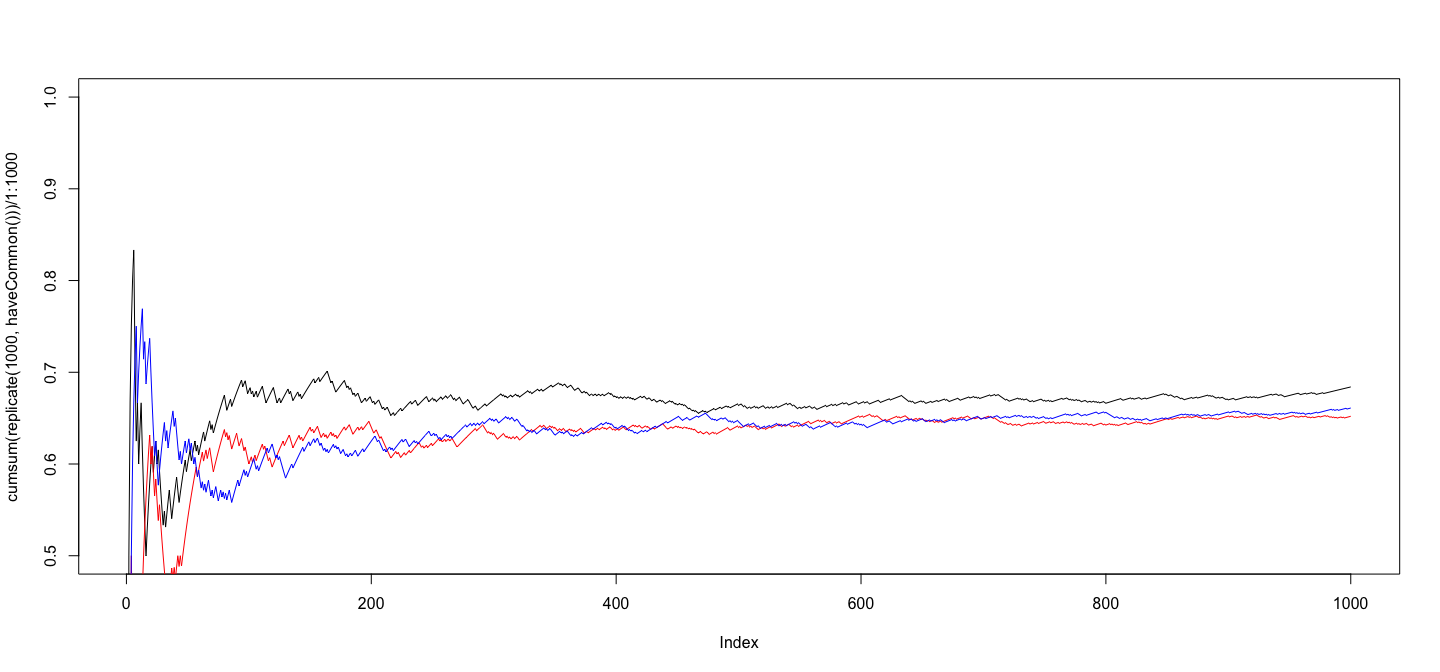
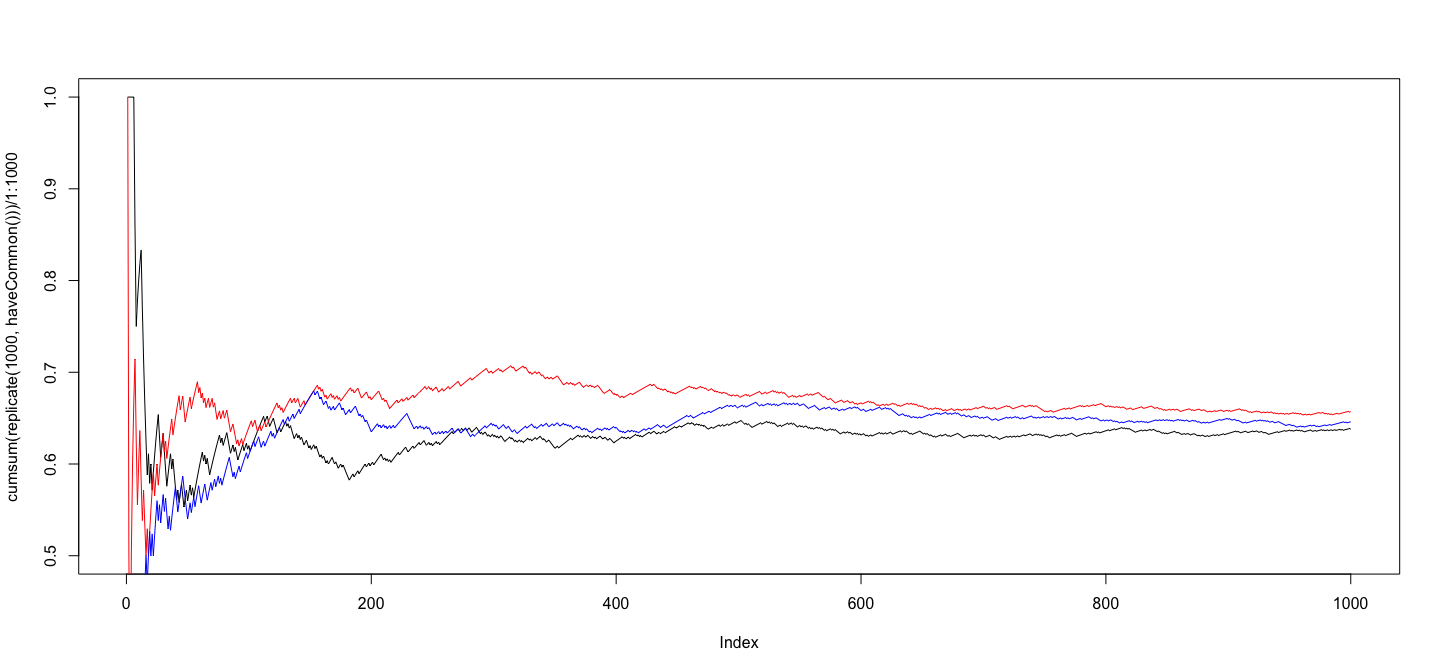
width update

Changed region(s): [[0.0625, 0.375, 0.9375, 0.875], [0.3438, 0.5312, 0.4688, 0.5938]]

diff --git a/courses/introductory-computer-programming/slides/davis-plotly.html b/courses/introductory-computer-programming/slides/davis-plotly.html
@@ -16,9 +16,9 @@
 </head>
 <body>
 <div id="htmlwidget_container">
-  <div id="htmlwidget-c94cb046a0e80d5ddb4c" style="width:100%;height:400px;" class="plotly html-widget"></div>
+  <div id="htmlwidget-dab841853c745a2186ba" style="width:100%;height:400px;" class="plotly html-widget"></div>
 </div>
-<script type="application/json" data-for="htmlwidget-c94cb046a0e80d5ddb4c">{"x":{"data":[{"x":[182,161,161,177,157,170,167,186,178,171,175,57,161,168,163,166,187,168,197,175,180,170,175,173,171,166,169,166,157,183,166,178,173,164,169,176,166,174,178,187,164,178,163,183,179,160,180,161,174,162,182,165,169,185,177,176,170,183,172,173,165,177,180,173,189,162,165,164,158,178,175,173,165,163,166,171,160,160,182,183,165,168,169,167,170,182,178,165,163,162,173,161,184,180,189,165,185,169,159,155,164,178,163,163,175,164,152,167,166,166,183,179,174,179,167,168,184,184,169,178,178,167,178,165,179,169,153,157,171,157,166,185,160,148,177,162,172,167,188,191,175,163,165,176,171,160,165,157,173,184,168,162,150,162,163,169,172,170,169,167,163,161,162,172,163,159,170,166,191,158,169,163,170,176,168,178,174,170,178,174,176,154,181,165,173,162,172,169,183,158,185,173,164,156,164,175,180,175,181,177],"y":[77,58,53,68,59,76,76,69,71,65,70,166,51,64,52,65,92,62,76,61,119,61,65,66,54,50,63,58,39,101,71,75,79,52,68,64,56,69,88,65,54,80,63,78,85,54,73,49,54,75,82,56,74,102,64,65,66,73,75,57,68,71,71,78,97,60,64,64,52,80,62,66,55,56,50,50,50,63,69,69,61,55,53,60,56,59,62,53,57,57,70,56,84,69,88,56,103,50,52,55,55,63,47,45,62,53,52,57,64,59,84,79,55,67,76,62,83,96,75,65,78,69,68,55,67,52,47,45,68,44,62,87,56,50,83,53,64,62,90,85,66,52,53,54,64,55,55,59,70,88,57,47,47,55,48,54,69,59,58,57,51,54,53,59,56,59,63,66,96,53,76,54,61,82,62,71,60,66,81,68,80,43,82,63,70,56,60,58,76,50,88,89,59,51,62,74,83,81,90,79],"text":["height: 182<br />weight:  77","height: 161<br />weight:  58","height: 161<br />weight:  53","height: 177<br />weight:  68","height: 157<br />weight:  59","height: 170<br />weight:  76","height: 167<br />weight:  76","height: 186<br />weight:  69","height: 178<br />weight:  71","height: 171<br />weight:  65","height: 175<br />weight:  70","height:  57<br />weight: 166","height: 161<br />weight:  51","height: 168<br />weight:  64","height: 163<br />weight:  52","height: 166<br />weight:  65","height: 187<br />weight:  92","height: 168<br />weight:  62","height: 197<br />weight:  76","height: 175<br />weight:  61","height: 180<br />weight: 119","height: 170<br />weight:  61","height: 175<br />weight:  65","height: 173<br />weight:  66","height: 171<br />weight:  54","height: 166<br />weight:  50","height: 169<br />weight:  63","height: 166<br />weight:  58","height: 157<br />weight:  39","height: 183<br />weight: 101","height: 166<br />weight:  71","height: 178<br />weight:  75","height: 173<br />weight:  79","height: 164<br />weight:  52","height: 169<br />weight:  68","height: 176<br />weight:  64","height: 166<br />weight:  56","height: 174<br />weight:  69","height: 178<br />weight:  88","height: 187<br />weight:  65","height: 164<br />weight:  54","height: 178<br />weight:  80","height: 163<br />weight:  63","height: 183<br />weight:  78","height: 179<br />weight:  85","height: 160<br />weight:  54","height: 180<br />weight:  73","height: 161<br />weight:  49","height: 174<br />weight:  54","height: 162<br />weight:  75","height: 182<br />weight:  82","height: 165<br />weight:  56","height: 169<br />weight:  74","height: 185<br />weight: 102","height: 177<br />weight:  64","height: 176<br />weight:  65","height: 170<br />weight:  66","height: 183<br />weight:  73","height: 172<br />weight:  75","height: 173<br />weight:  57","height: 165<br />weight:  68","height: 177<br />weight:  71","height: 180<br />weight:  71","height: 173<br />weight:  78","height: 189<br />weight:  97","height: 162<br />weight:  60","height: 165<br />weight:  64","height: 164<br />weight:  64","height: 158<br />weight:  52","height: 178<br />weight:  80","height: 175<br />weight:  62","height: 173<br />weight:  66","height: 165<br />weight:  55","height: 163<br />weight:  56","height: 166<br />weight:  50","height: 171<br />weight:  50","height: 160<br />weight:  50","height: 160<br />weight:  63","height: 182<br />weight:  69","height: 183<br />weight:  69","height: 165<br />weight:  61","height: 168<br />weight:  55","height: 169<br />weight:  53","height: 167<br />weight:  60","height: 170<br />weight:  56","height: 182<br />weight:  59","height: 178<br />weight:  62","height: 165<br />weight:  53","height: 163<br />weight:  57","height: 162<br />weight:  57","height: 173<br />weight:  70","height: 161<br />weight:  56","height: 184<br />weight:  84","height: 180<br />weight:  69","height: 189<br />weight:  88","height: 165<br />weight:  56","height: 185<br />weight: 103","height: 169<br />weight:  50","height: 159<br />weight:  52","height: 155<br />weight:  55","height: 164<br />weight:  55","height: 178<br />weight:  63","height: 163<br />weight:  47","height: 163<br />weight:  45","height: 175<br />weight:  62","height: 164<br />weight:  53","height: 152<br />weight:  52","height: 167<br />weight:  57","height: 166<br />weight:  64","height: 166<br />weight:  59","height: 183<br />weight:  84","height: 179<br />weight:  79","height: 174<br />weight:  55","height: 179<br />weight:  67","height: 167<br />weight:  76","height: 168<br />weight:  62","height: 184<br />weight:  83","height: 184<br />weight:  96","height: 169<br />weight:  75","height: 178<br />weight:  65","height: 178<br />weight:  78","height: 167<br />weight:  69","height: 178<br />weight:  68","height: 165<br />weight:  55","height: 179<br />weight:  67","height: 169<br />weight:  52","height: 153<br />weight:  47","height: 157<br />weight:  45","height: 171<br />weight:  68","height: 157<br />weight:  44","height: 166<br />weight:  62","height: 185<br />weight:  87","height: 160<br />weight:  56","height: 148<br />weight:  50","height: 177<br />weight:  83","height: 162<br />weight:  53","height: 172<br />weight:  64","height: 167<br />weight:  62","height: 188<br />weight:  90","height: 191<br />weight:  85","height: 175<br />weight:  66","height: 163<br />weight:  52","height: 165<br />weight:  53","height: 176<br />weight:  54","height: 171<br />weight:  64","height: 160<br />weight:  55","height: 165<br />weight:  55","height: 157<br />weight:  59","height: 173<br />weight:  70","height: 184<br />weight:  88","height: 168<br />weight:  57","height: 162<br />weight:  47","height: 150<br />weight:  47","height: 162<br />weight:  55","height: 163<br />weight:  48","height: 169<br />weight:  54","height: 172<br />weight:  69","height: 170<br />weight:  59","height: 169<br />weight:  58","height: 167<br />weight:  57","height: 163<br />weight:  51","height: 161<br />weight:  54","height: 162<br />weight:  53","height: 172<br />weight:  59","height: 163<br />weight:  56","height: 159<br />weight:  59","height: 170<br />weight:  63","height: 166<br />weight:  66","height: 191<br />weight:  96","height: 158<br />weight:  53","height: 169<br />weight:  76","height: 163<br />weight:  54","height: 170<br />weight:  61","height: 176<br />weight:  82","height: 168<br />weight:  62","height: 178<br />weight:  71","height: 174<br />weight:  60","height: 170<br />weight:  66","height: 178<br />weight:  81","height: 174<br />weight:  68","height: 176<br />weight:  80","height: 154<br />weight:  43","height: 181<br />weight:  82","height: 165<br />weight:  63","height: 173<br />weight:  70","height: 162<br />weight:  56","height: 172<br />weight:  60","height: 169<br />weight:  58","height: 183<br />weight:  76","height: 158<br />weight:  50","height: 185<br />weight:  88","height: 173<br />weight:  89","height: 164<br />weight:  59","height: 156<br />weight:  51","height: 164<br />weight:  62","height: 175<br />weight:  74","height: 180<br />weight:  83","height: 175<br />weight:  81","height: 181<br />weight:  90","height: 177<br />weight:  79"],"type":"scatter","mode":"markers","marker":{"autocolorscale":false,"color":"rgba(0,0,0,1)","opacity":1,"size":5.66929133858268,"symbol":"circle","line":{"width":1.88976377952756,"color":"rgba(0,0,0,1)"}},"hoveron":"points","showlegend":false,"xaxis":"x","yaxis":"y","hoverinfo":"text","frame":null},{"x":[50,204],"y":[37.1865231380028,73.9010326926401],"text":"intercept: 25.26623<br />slope: 0.2384059","type":"scatter","mode":"lines","line":{"width":1.88976377952756,"color":"rgba(223,83,107,1)","dash":"solid"},"hoveron":"points","showlegend":false,"xaxis":"x","yaxis":"y","hoverinfo":"text","frame":null},{"x":[50,204],"y":[-56.0005584169673,98.0001463584854],"text":"intercept: -106.0008<br />slope: 1.000005","type":"scatter","mode":"lines","line":{"width":1.88976377952756,"color":"rgba(97,208,79,1)","dash":"solid"},"hoveron":"points","showlegend":false,"xaxis":"x","yaxis":"y","hoverinfo":"text","frame":null}],"layout":{"margin":{"t":31.6555772994129,"r":7.30593607305936,"b":45.6099151989563,"l":48.9497716894977},"plot_bgcolor":"rgba(235,235,235,1)","paper_bgcolor":"rgba(255,255,255,1)","font":{"color":"rgba(0,0,0,1)","family":"","size":14.6118721461187},"xaxis":{"domain":[0,1],"automargin":true,"type":"linear","autorange":false,"range":[50,204],"tickmode":"array","ticktext":["50","100","150","200"],"tickvals":[50,100,150,200],"categoryorder":"array","categoryarray":["50","100","150","200"],"nticks":null,"ticks":"outside","tickcolor":"rgba(51,51,51,1)","ticklen":3.65296803652968,"tickwidth":0.66417600664176,"showticklabels":true,"tickfont":{"color":"rgba(77,77,77,1)","family":"","size":11.689497716895},"tickangle":-0,"showline":false,"linecolor":null,"linewidth":0,"showgrid":true,"gridcolor":"rgba(255,255,255,1)","gridwidth":0.66417600664176,"zeroline":false,"anchor":"y","title":{"text":"height","font":{"color":"rgba(0,0,0,1)","family":"","size":14.6118721461187}},"hoverformat":".2f"},"yaxis":{"domain":[0,1],"automargin":true,"type":"linear","autorange":false,"range":[-119.600826602175,179.600039362008],"tickmode":"array","ticktext":["-100","0","100"],"tickvals":[-100,0,100],"categoryorder":"array","categoryarray":["-100","0","100"],"nticks":null,"ticks":"outside","tickcolor":"rgba(51,51,51,1)","ticklen":3.65296803652968,"tickwidth":0.66417600664176,"showticklabels":true,"tickfont":{"color":"rgba(77,77,77,1)","family":"","size":11.689497716895},"tickangle":-0,"showline":false,"linecolor":null,"linewidth":0,"showgrid":true,"gridcolor":"rgba(255,255,255,1)","gridwidth":0.66417600664176,"zeroline":false,"anchor":"x","title":{"text":"weight","font":{"color":"rgba(0,0,0,1)","family":"","size":14.6118721461187}},"hoverformat":".2f"},"shapes":[{"type":"rect","fillcolor":null,"line":{"color":null,"width":0,"linetype":[]},"yref":"paper","xref":"paper","x0":0,"x1":1,"y0":0,"y1":1}],"showlegend":false,"legend":{"bgcolor":"rgba(255,255,255,1)","bordercolor":"transparent","borderwidth":1.88976377952756,"font":{"color":"rgba(0,0,0,1)","family":"","size":11.689497716895}},"hovermode":"closest","barmode":"relative"},"config":{"doubleClick":"reset","modeBarButtonsToAdd":["hoverclosest","hovercompare"],"showSendToCloud":false},"source":"A","attrs":{"87cd1480678d":{"x":{},"y":{},"type":"scatter"},"87cd7a0e647e":{"intercept":{},"slope":{}},"87cd46e7cacc":{"intercept":{},"slope":{}}},"cur_data":"87cd1480678d","visdat":{"87cd1480678d":["function (y) ","x"],"87cd7a0e647e":["function (y) ","x"],"87cd46e7cacc":["function (y) ","x"]},"highlight":{"on":"plotly_click","persistent":false,"dynamic":false,"selectize":false,"opacityDim":0.2,"selected":{"opacity":1},"debounce":0},"shinyEvents":["plotly_hover","plotly_click","plotly_selected","plotly_relayout","plotly_brushed","plotly_brushing","plotly_clickannotation","plotly_doubleclick","plotly_deselect","plotly_afterplot","plotly_sunburstclick"],"base_url":"https://plot.ly"},"evals":[],"jsHooks":[]}</script>
-<script type="application/htmlwidget-sizing" data-for="htmlwidget-c94cb046a0e80d5ddb4c">{"viewer":{"width":"100%","height":400,"padding":0,"fill":true},"browser":{"width":"100%","height":400,"padding":0,"fill":true}}</script>
+<script type="application/json" data-for="htmlwidget-dab841853c745a2186ba">{"x":{"data":[{"x":[182,161,161,177,157,170,167,186,178,171,175,57,161,168,163,166,187,168,197,175,180,170,175,173,171,166,169,166,157,183,166,178,173,164,169,176,166,174,178,187,164,178,163,183,179,160,180,161,174,162,182,165,169,185,177,176,170,183,172,173,165,177,180,173,189,162,165,164,158,178,175,173,165,163,166,171,160,160,182,183,165,168,169,167,170,182,178,165,163,162,173,161,184,180,189,165,185,169,159,155,164,178,163,163,175,164,152,167,166,166,183,179,174,179,167,168,184,184,169,178,178,167,178,165,179,169,153,157,171,157,166,185,160,148,177,162,172,167,188,191,175,163,165,176,171,160,165,157,173,184,168,162,150,162,163,169,172,170,169,167,163,161,162,172,163,159,170,166,191,158,169,163,170,176,168,178,174,170,178,174,176,154,181,165,173,162,172,169,183,158,185,173,164,156,164,175,180,175,181,177],"y":[77,58,53,68,59,76,76,69,71,65,70,166,51,64,52,65,92,62,76,61,119,61,65,66,54,50,63,58,39,101,71,75,79,52,68,64,56,69,88,65,54,80,63,78,85,54,73,49,54,75,82,56,74,102,64,65,66,73,75,57,68,71,71,78,97,60,64,64,52,80,62,66,55,56,50,50,50,63,69,69,61,55,53,60,56,59,62,53,57,57,70,56,84,69,88,56,103,50,52,55,55,63,47,45,62,53,52,57,64,59,84,79,55,67,76,62,83,96,75,65,78,69,68,55,67,52,47,45,68,44,62,87,56,50,83,53,64,62,90,85,66,52,53,54,64,55,55,59,70,88,57,47,47,55,48,54,69,59,58,57,51,54,53,59,56,59,63,66,96,53,76,54,61,82,62,71,60,66,81,68,80,43,82,63,70,56,60,58,76,50,88,89,59,51,62,74,83,81,90,79],"text":["height: 182<br />weight:  77","height: 161<br />weight:  58","height: 161<br />weight:  53","height: 177<br />weight:  68","height: 157<br />weight:  59","height: 170<br />weight:  76","height: 167<br />weight:  76","height: 186<br />weight:  69","height: 178<br />weight:  71","height: 171<br />weight:  65","height: 175<br />weight:  70","height:  57<br />weight: 166","height: 161<br />weight:  51","height: 168<br />weight:  64","height: 163<br />weight:  52","height: 166<br />weight:  65","height: 187<br />weight:  92","height: 168<br />weight:  62","height: 197<br />weight:  76","height: 175<br />weight:  61","height: 180<br />weight: 119","height: 170<br />weight:  61","height: 175<br />weight:  65","height: 173<br />weight:  66","height: 171<br />weight:  54","height: 166<br />weight:  50","height: 169<br />weight:  63","height: 166<br />weight:  58","height: 157<br />weight:  39","height: 183<br />weight: 101","height: 166<br />weight:  71","height: 178<br />weight:  75","height: 173<br />weight:  79","height: 164<br />weight:  52","height: 169<br />weight:  68","height: 176<br />weight:  64","height: 166<br />weight:  56","height: 174<br />weight:  69","height: 178<br />weight:  88","height: 187<br />weight:  65","height: 164<br />weight:  54","height: 178<br />weight:  80","height: 163<br />weight:  63","height: 183<br />weight:  78","height: 179<br />weight:  85","height: 160<br />weight:  54","height: 180<br />weight:  73","height: 161<br />weight:  49","height: 174<br />weight:  54","height: 162<br />weight:  75","height: 182<br />weight:  82","height: 165<br />weight:  56","height: 169<br />weight:  74","height: 185<br />weight: 102","height: 177<br />weight:  64","height: 176<br />weight:  65","height: 170<br />weight:  66","height: 183<br />weight:  73","height: 172<br />weight:  75","height: 173<br />weight:  57","height: 165<br />weight:  68","height: 177<br />weight:  71","height: 180<br />weight:  71","height: 173<br />weight:  78","height: 189<br />weight:  97","height: 162<br />weight:  60","height: 165<br />weight:  64","height: 164<br />weight:  64","height: 158<br />weight:  52","height: 178<br />weight:  80","height: 175<br />weight:  62","height: 173<br />weight:  66","height: 165<br />weight:  55","height: 163<br />weight:  56","height: 166<br />weight:  50","height: 171<br />weight:  50","height: 160<br />weight:  50","height: 160<br />weight:  63","height: 182<br />weight:  69","height: 183<br />weight:  69","height: 165<br />weight:  61","height: 168<br />weight:  55","height: 169<br />weight:  53","height: 167<br />weight:  60","height: 170<br />weight:  56","height: 182<br />weight:  59","height: 178<br />weight:  62","height: 165<br />weight:  53","height: 163<br />weight:  57","height: 162<br />weight:  57","height: 173<br />weight:  70","height: 161<br />weight:  56","height: 184<br />weight:  84","height: 180<br />weight:  69","height: 189<br />weight:  88","height: 165<br />weight:  56","height: 185<br />weight: 103","height: 169<br />weight:  50","height: 159<br />weight:  52","height: 155<br />weight:  55","height: 164<br />weight:  55","height: 178<br />weight:  63","height: 163<br />weight:  47","height: 163<br />weight:  45","height: 175<br />weight:  62","height: 164<br />weight:  53","height: 152<br />weight:  52","height: 167<br />weight:  57","height: 166<br />weight:  64","height: 166<br />weight:  59","height: 183<br />weight:  84","height: 179<br />weight:  79","height: 174<br />weight:  55","height: 179<br />weight:  67","height: 167<br />weight:  76","height: 168<br />weight:  62","height: 184<br />weight:  83","height: 184<br />weight:  96","height: 169<br />weight:  75","height: 178<br />weight:  65","height: 178<br />weight:  78","height: 167<br />weight:  69","height: 178<br />weight:  68","height: 165<br />weight:  55","height: 179<br />weight:  67","height: 169<br />weight:  52","height: 153<br />weight:  47","height: 157<br />weight:  45","height: 171<br />weight:  68","height: 157<br />weight:  44","height: 166<br />weight:  62","height: 185<br />weight:  87","height: 160<br />weight:  56","height: 148<br />weight:  50","height: 177<br />weight:  83","height: 162<br />weight:  53","height: 172<br />weight:  64","height: 167<br />weight:  62","height: 188<br />weight:  90","height: 191<br />weight:  85","height: 175<br />weight:  66","height: 163<br />weight:  52","height: 165<br />weight:  53","height: 176<br />weight:  54","height: 171<br />weight:  64","height: 160<br />weight:  55","height: 165<br />weight:  55","height: 157<br />weight:  59","height: 173<br />weight:  70","height: 184<br />weight:  88","height: 168<br />weight:  57","height: 162<br />weight:  47","height: 150<br />weight:  47","height: 162<br />weight:  55","height: 163<br />weight:  48","height: 169<br />weight:  54","height: 172<br />weight:  69","height: 170<br />weight:  59","height: 169<br />weight:  58","height: 167<br />weight:  57","height: 163<br />weight:  51","height: 161<br />weight:  54","height: 162<br />weight:  53","height: 172<br />weight:  59","height: 163<br />weight:  56","height: 159<br />weight:  59","height: 170<br />weight:  63","height: 166<br />weight:  66","height: 191<br />weight:  96","height: 158<br />weight:  53","height: 169<br />weight:  76","height: 163<br />weight:  54","height: 170<br />weight:  61","height: 176<br />weight:  82","height: 168<br />weight:  62","height: 178<br />weight:  71","height: 174<br />weight:  60","height: 170<br />weight:  66","height: 178<br />weight:  81","height: 174<br />weight:  68","height: 176<br />weight:  80","height: 154<br />weight:  43","height: 181<br />weight:  82","height: 165<br />weight:  63","height: 173<br />weight:  70","height: 162<br />weight:  56","height: 172<br />weight:  60","height: 169<br />weight:  58","height: 183<br />weight:  76","height: 158<br />weight:  50","height: 185<br />weight:  88","height: 173<br />weight:  89","height: 164<br />weight:  59","height: 156<br />weight:  51","height: 164<br />weight:  62","height: 175<br />weight:  74","height: 180<br />weight:  83","height: 175<br />weight:  81","height: 181<br />weight:  90","height: 177<br />weight:  79"],"type":"scatter","mode":"markers","marker":{"autocolorscale":false,"color":"rgba(0,0,0,1)","opacity":1,"size":5.66929133858268,"symbol":"circle","line":{"width":1.88976377952756,"color":"rgba(0,0,0,1)"}},"hoveron":"points","showlegend":false,"xaxis":"x","yaxis":"y","hoverinfo":"text","frame":null},{"x":[50,204],"y":[37.1865231380028,73.9010326926401],"text":"intercept: 25.26623<br />slope: 0.2384059","type":"scatter","mode":"lines","line":{"width":1.88976377952756,"color":"rgba(223,83,107,1)","dash":"solid"},"hoveron":"points","showlegend":false,"xaxis":"x","yaxis":"y","hoverinfo":"text","frame":null},{"x":[50,204],"y":[-56.0005584169673,98.0001463584854],"text":"intercept: -106.0008<br />slope: 1.000005","type":"scatter","mode":"lines","line":{"width":1.88976377952756,"color":"rgba(97,208,79,1)","dash":"solid"},"hoveron":"points","showlegend":false,"xaxis":"x","yaxis":"y","hoverinfo":"text","frame":null}],"layout":{"margin":{"t":31.6555772994129,"r":7.30593607305936,"b":45.6099151989563,"l":48.9497716894977},"plot_bgcolor":"rgba(235,235,235,1)","paper_bgcolor":"rgba(255,255,255,1)","font":{"color":"rgba(0,0,0,1)","family":"","size":14.6118721461187},"xaxis":{"domain":[0,1],"automargin":true,"type":"linear","autorange":false,"range":[50,204],"tickmode":"array","ticktext":["50","100","150","200"],"tickvals":[50,100,150,200],"categoryorder":"array","categoryarray":["50","100","150","200"],"nticks":null,"ticks":"outside","tickcolor":"rgba(51,51,51,1)","ticklen":3.65296803652968,"tickwidth":0.66417600664176,"showticklabels":true,"tickfont":{"color":"rgba(77,77,77,1)","family":"","size":11.689497716895},"tickangle":-0,"showline":false,"linecolor":null,"linewidth":0,"showgrid":true,"gridcolor":"rgba(255,255,255,1)","gridwidth":0.66417600664176,"zeroline":false,"anchor":"y","title":{"text":"height","font":{"color":"rgba(0,0,0,1)","family":"","size":14.6118721461187}},"hoverformat":".2f"},"yaxis":{"domain":[0,1],"automargin":true,"type":"linear","autorange":false,"range":[-119.600826602175,179.600039362008],"tickmode":"array","ticktext":["-100","0","100"],"tickvals":[-100,0,100],"categoryorder":"array","categoryarray":["-100","0","100"],"nticks":null,"ticks":"outside","tickcolor":"rgba(51,51,51,1)","ticklen":3.65296803652968,"tickwidth":0.66417600664176,"showticklabels":true,"tickfont":{"color":"rgba(77,77,77,1)","family":"","size":11.689497716895},"tickangle":-0,"showline":false,"linecolor":null,"linewidth":0,"showgrid":true,"gridcolor":"rgba(255,255,255,1)","gridwidth":0.66417600664176,"zeroline":false,"anchor":"x","title":{"text":"weight","font":{"color":"rgba(0,0,0,1)","family":"","size":14.6118721461187}},"hoverformat":".2f"},"shapes":[{"type":"rect","fillcolor":null,"line":{"color":null,"width":0,"linetype":[]},"yref":"paper","xref":"paper","x0":0,"x1":1,"y0":0,"y1":1}],"showlegend":false,"legend":{"bgcolor":"rgba(255,255,255,1)","bordercolor":"transparent","borderwidth":1.88976377952756,"font":{"color":"rgba(0,0,0,1)","family":"","size":11.689497716895}},"hovermode":"closest","barmode":"relative"},"config":{"doubleClick":"reset","modeBarButtonsToAdd":["hoverclosest","hovercompare"],"showSendToCloud":false},"source":"A","attrs":{"884e3f807341":{"x":{},"y":{},"type":"scatter"},"884ea0ed0f9":{"intercept":{},"slope":{}},"884e52b99097":{"intercept":{},"slope":{}}},"cur_data":"884e3f807341","visdat":{"884e3f807341":["function (y) ","x"],"884ea0ed0f9":["function (y) ","x"],"884e52b99097":["function (y) ","x"]},"highlight":{"on":"plotly_click","persistent":false,"dynamic":false,"selectize":false,"opacityDim":0.2,"selected":{"opacity":1},"debounce":0},"shinyEvents":["plotly_hover","plotly_click","plotly_selected","plotly_relayout","plotly_brushed","plotly_brushing","plotly_clickannotation","plotly_doubleclick","plotly_deselect","plotly_afterplot","plotly_sunburstclick"],"base_url":"https://plot.ly"},"evals":[],"jsHooks":[]}</script>
+<script type="application/htmlwidget-sizing" data-for="htmlwidget-dab841853c745a2186ba">{"viewer":{"width":"100%","height":400,"padding":0,"fill":true},"browser":{"width":"100%","height":400,"padding":0,"fill":true}}</script>
 </body>
 </html>

diff --git a/courses/introductory-computer-programming/slides/03-roverview-2.html b/courses/introductory-computer-programming/slides/03-roverview-2.html
@@ -128,11 +128,12 @@ pvec
 ```
 
 ```
-  [1] 0.00 0.01 0.02 0.03 0.04 0.05 0.06 0.07 0.08 0.09 0.10 0.11 0.12 0.13 0.14 0.15 0.16 0.17 0.18 0.19 0.20 0.21 0.22
- [24] 0.23 0.24 0.25 0.26 0.27 0.28 0.29 0.30 0.31 0.32 0.33 0.34 0.35 0.36 0.37 0.38 0.39 0.40 0.41 0.42 0.43 0.44 0.45
- [47] 0.46 0.47 0.48 0.49 0.50 0.51 0.52 0.53 0.54 0.55 0.56 0.57 0.58 0.59 0.60 0.61 0.62 0.63 0.64 0.65 0.66 0.67 0.68
- [70] 0.69 0.70 0.71 0.72 0.73 0.74 0.75 0.76 0.77 0.78 0.79 0.80 0.81 0.82 0.83 0.84 0.85 0.86 0.87 0.88 0.89 0.90 0.91
- [93] 0.92 0.93 0.94 0.95 0.96 0.97 0.98 0.99 1.00
+  [1] 0.00 0.01 0.02 0.03 0.04 0.05 0.06 0.07 0.08 0.09 0.10 0.11 0.12 0.13 0.14 0.15 0.16 0.17 0.18
+ [20] 0.19 0.20 0.21 0.22 0.23 0.24 0.25 0.26 0.27 0.28 0.29 0.30 0.31 0.32 0.33 0.34 0.35 0.36 0.37
+ [39] 0.38 0.39 0.40 0.41 0.42 0.43 0.44 0.45 0.46 0.47 0.48 0.49 0.50 0.51 0.52 0.53 0.54 0.55 0.56
+ [58] 0.57 0.58 0.59 0.60 0.61 0.62 0.63 0.64 0.65 0.66 0.67 0.68 0.69 0.70 0.71 0.72 0.73 0.74 0.75
+ [77] 0.76 0.77 0.78 0.79 0.80 0.81 0.82 0.83 0.84 0.85 0.86 0.87 0.88 0.89 0.90 0.91 0.92 0.93 0.94
+ [96] 0.95 0.96 0.97 0.98 0.99 1.00
 ```
 
 ```r
@@ -141,19 +142,21 @@ Lvec
 ```
 
 ```
-  [1] 0.000000e+00 1.441581e-30 3.484224e-25 4.743664e-22 7.744746e-20 3.953724e-18 9.671700e-17 1.423593e-15
-  [9] 1.444375e-14 1.102691e-13 6.725082e-13 3.419368e-12 1.495827e-11 5.766228e-11 1.995491e-10 6.291462e-10
- [17] 1.828738e-09 4.948377e-09 1.256532e-08 3.014411e-08 6.870958e-08 1.495277e-07 3.119770e-07 6.263028e-07
- [25] 1.213580e-06 2.275976e-06 4.141251e-06 7.326358e-06 1.262589e-05 2.123187e-05 3.489188e-05 5.611264e-05
- [33] 8.841550e-05 1.366491e-04 2.073621e-04 3.092354e-04 4.535679e-04 6.548064e-04 9.310987e-04 1.304845e-03
- [41] 1.803214e-03 2.458572e-03 3.308786e-03 4.397325e-03 5.773111e-03 7.490042e-03 9.606132e-03 1.218220e-02
- [49] 1.528011e-02 1.896044e-02 2.327971e-02 2.828716e-02 3.402104e-02 4.050475e-02 4.774279e-02 5.571678e-02
- [57] 6.438184e-02 7.366353e-02 8.345564e-02 9.361912e-02 1.039824e-01 1.143435e-01 1.244734e-01 1.341224e-01
- [65] 1.430267e-01 1.509184e-01 1.575359e-01 1.626355e-01 1.660037e-01 1.674691e-01 1.669138e-01 1.642827e-01
- [73] 1.595904e-01 1.529252e-01 1.444492e-01 1.343941e-01 1.230530e-01 1.107677e-01 9.791332e-02 8.487885e-02
- [81] 7.204722e-02 5.977459e-02 4.837120e-02 3.808505e-02 2.909005e-02 2.147970e-02 1.526701e-02 1.039084e-02
- [89] 6.728148e-03 4.110731e-03 2.344891e-03 1.231523e-03 5.843301e-04 2.439130e-04 8.615269e-05 2.424055e-05
- [97] 4.910431e-06 5.924050e-07 2.780141e-08 1.303740e-10 0.000000e+00
+  [1] 0.000000e+00 1.441581e-30 3.484224e-25 4.743664e-22 7.744746e-20 3.953724e-18 9.671700e-17
+  [8] 1.423593e-15 1.444375e-14 1.102691e-13 6.725082e-13 3.419368e-12 1.495827e-11 5.766228e-11
+ [15] 1.995491e-10 6.291462e-10 1.828738e-09 4.948377e-09 1.256532e-08 3.014411e-08 6.870958e-08
+ [22] 1.495277e-07 3.119770e-07 6.263028e-07 1.213580e-06 2.275976e-06 4.141251e-06 7.326358e-06
+ [29] 1.262589e-05 2.123187e-05 3.489188e-05 5.611264e-05 8.841550e-05 1.366491e-04 2.073621e-04
+ [36] 3.092354e-04 4.535679e-04 6.548064e-04 9.310987e-04 1.304845e-03 1.803214e-03 2.458572e-03
+ [43] 3.308786e-03 4.397325e-03 5.773111e-03 7.490042e-03 9.606132e-03 1.218220e-02 1.528011e-02
+ [50] 1.896044e-02 2.327971e-02 2.828716e-02 3.402104e-02 4.050475e-02 4.774279e-02 5.571678e-02
+ [57] 6.438184e-02 7.366353e-02 8.345564e-02 9.361912e-02 1.039824e-01 1.143435e-01 1.244734e-01
+ [64] 1.341224e-01 1.430267e-01 1.509184e-01 1.575359e-01 1.626355e-01 1.660037e-01 1.674691e-01
+ [71] 1.669138e-01 1.642827e-01 1.595904e-01 1.529252e-01 1.444492e-01 1.343941e-01 1.230530e-01
+ [78] 1.107677e-01 9.791332e-02 8.487885e-02 7.204722e-02 5.977459e-02 4.837120e-02 3.808505e-02
+ [85] 2.909005e-02 2.147970e-02 1.526701e-02 1.039084e-02 6.728148e-03 4.110731e-03 2.344891e-03
+ [92] 1.231523e-03 5.843301e-04 2.439130e-04 8.615269e-05 2.424055e-05 4.910431e-06 5.924050e-07
+ [99] 2.780141e-08 1.303740e-10 0.000000e+00
 ```
 
 ---
@@ -484,7 +487,8 @@ days
 ```
 
 ```
- [1] 275 150 134 363 220 306 184  81 343 337  63 105 335 157 324 238 276 235 106  13  63 331 280  10   1 217 122 357
+ [1] 112  66 311 109 161  47 183 276 210 255  90 146 207 229 298  75 294 358 340 253  21 137 219 256
+[25]  83 278 179 172
 ```
 
 ```r
@@ -492,7 +496,7 @@ length(unique(days))
 ```
 
 ```
-[1] 27
+[1] 28
 ```
 
 ---
@@ -516,6 +520,14 @@ haveCommon()
 ```
 
 ```
+[1] FALSE
+```
+
+```r
+haveCommon()
+```
+
+```
 [1] TRUE
 ```
 
@@ -533,14 +545,6 @@ haveCommon()
 
 ```
 [1] FALSE
-```
-
-```r
-haveCommon()
-```
-
-```
-[1] TRUE
 ```
 
 ---
@@ -553,12 +557,13 @@ replicate(100, haveCommon())
 ```
 
 ```
-  [1]  TRUE  TRUE FALSE FALSE  TRUE  TRUE  TRUE FALSE  TRUE  TRUE FALSE  TRUE  TRUE  TRUE FALSE FALSE  TRUE  TRUE  TRUE
- [20]  TRUE  TRUE  TRUE  TRUE FALSE FALSE  TRUE  TRUE  TRUE  TRUE  TRUE  TRUE FALSE FALSE  TRUE  TRUE  TRUE  TRUE  TRUE
- [39] FALSE FALSE FALSE  TRUE  TRUE FALSE  TRUE  TRUE  TRUE  TRUE  TRUE  TRUE  TRUE FALSE  TRUE  TRUE  TRUE  TRUE FALSE
- [58]  TRUE FALSE FALSE  TRUE FALSE  TRUE  TRUE  TRUE  TRUE  TRUE  TRUE  TRUE FALSE  TRUE  TRUE FALSE  TRUE  TRUE  TRUE
- [77]  TRUE  TRUE  TRUE  TRUE  TRUE  TRUE  TRUE FALSE  TRUE FALSE FALSE  TRUE FALSE  TRUE  TRUE  TRUE FALSE FALSE  TRUE
- [96]  TRUE  TRUE  TRUE  TRUE FALSE
+  [1] FALSE FALSE FALSE  TRUE  TRUE  TRUE  TRUE  TRUE FALSE FALSE  TRUE FALSE FALSE  TRUE FALSE
+ [16]  TRUE  TRUE FALSE FALSE  TRUE  TRUE  TRUE  TRUE  TRUE  TRUE  TRUE FALSE FALSE  TRUE  TRUE
+ [31] FALSE FALSE  TRUE FALSE FALSE FALSE FALSE  TRUE FALSE FALSE  TRUE  TRUE FALSE  TRUE  TRUE
+ [46]  TRUE  TRUE  TRUE  TRUE  TRUE FALSE  TRUE  TRUE  TRUE FALSE  TRUE  TRUE FALSE  TRUE  TRUE
+ [61]  TRUE  TRUE  TRUE  TRUE  TRUE  TRUE  TRUE FALSE FALSE FALSE FALSE  TRUE  TRUE FALSE FALSE
+ [76]  TRUE  TRUE  TRUE FALSE  TRUE  TRUE  TRUE  TRUE  TRUE  TRUE  TRUE  TRUE  TRUE  TRUE  TRUE
+ [91]  TRUE  TRUE  TRUE FALSE  TRUE  TRUE  TRUE  TRUE  TRUE  TRUE
 ```
 
 ---
